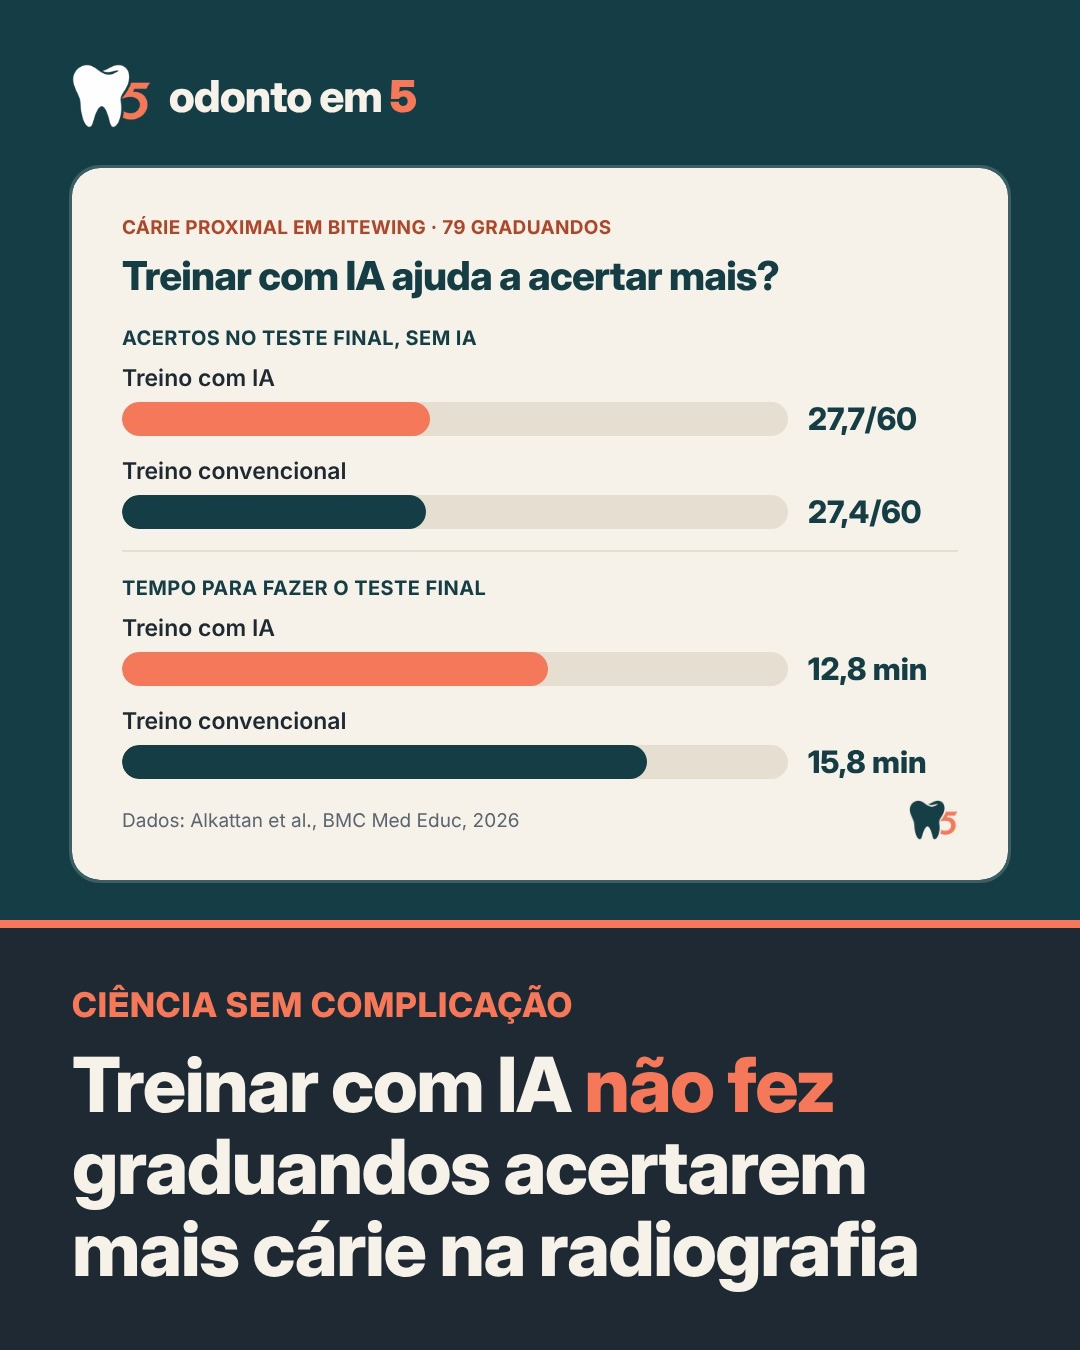
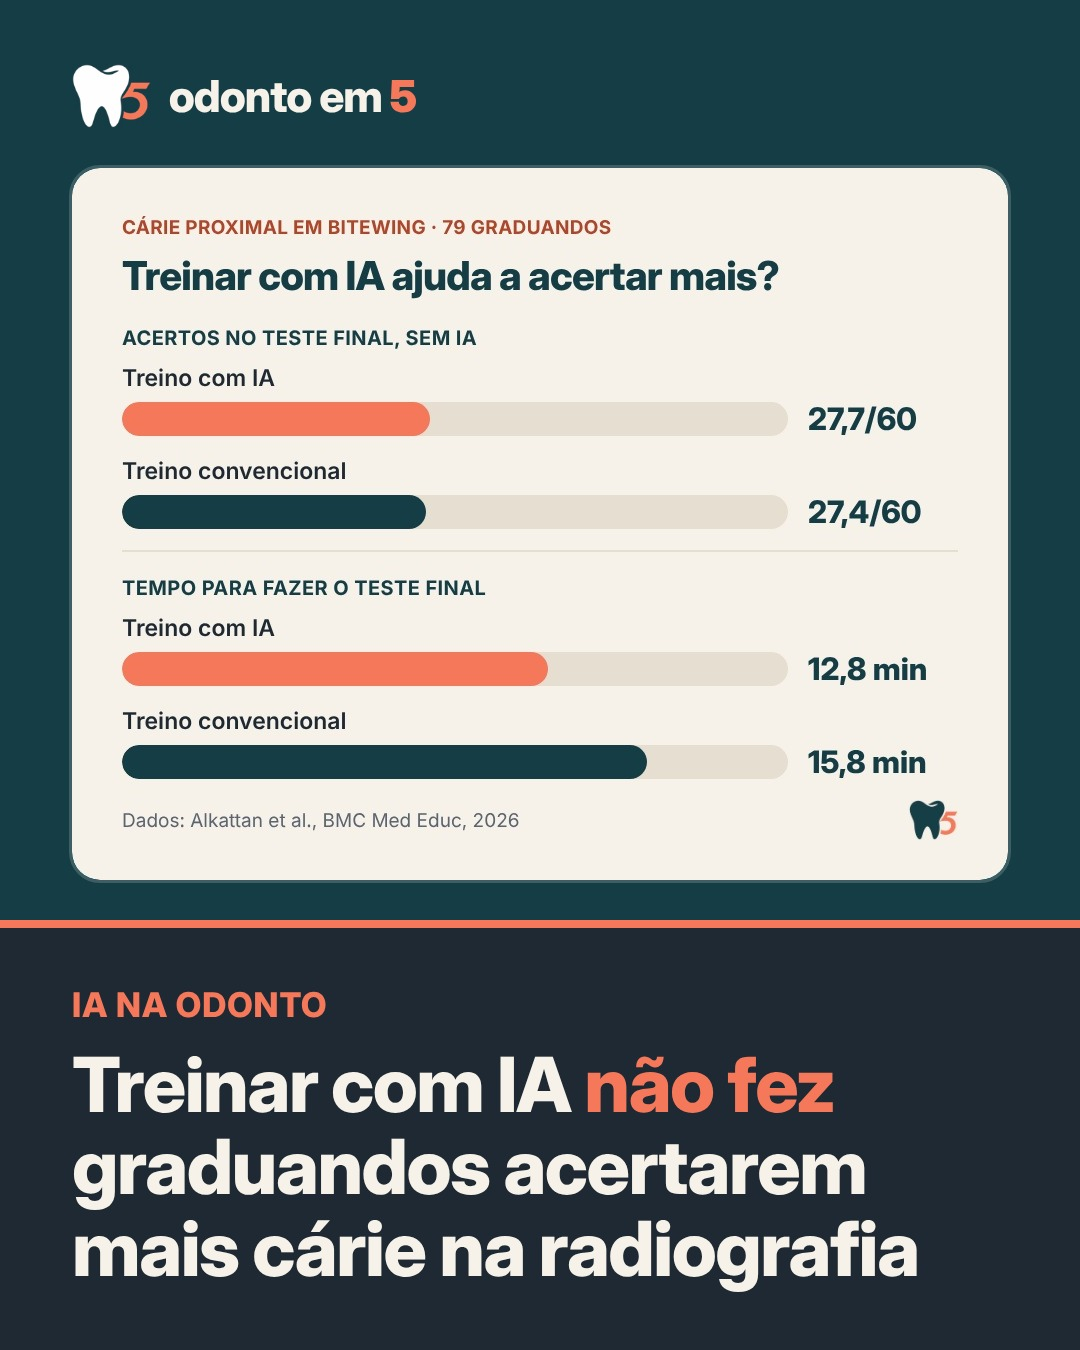
Posts avulsos de terça a sexta, com tema fixo por dia
Claude-Session: https://claude.ai/code/session_01HZM4YtSbmiuVSsxvWEreUq

Changed region(s): [[0.0611, 0.7156, 0.5194, 0.7778]]

diff --git a/AGENTES.md b/AGENTES.md
@@ -14,6 +14,7 @@ Este arquivo é o guia das sessões automáticas do Claude que pesquisam e monta
 | Quando | Quem | O quê |
 | --- | --- | --- |
 | Seg a sex, de manhã | Pesquisador | Coleta diária de pautas, salva no documento de pautas da semana no projeto ODONTOEMCINCO do Claude |
+| Ter a sex, 12h07 | Rotina do GitHub | Publica o post avulso do dia (só se `"revisado": true`) |
 | Sáb, 6h13 | Rotina do GitHub | Conta os votos da enquete da edição anterior (`resultado_enquete.json`) |
 | Sáb, de manhã | Editor + redator + revisor + designer | Monta a edição da segunda seguinte com `"aprovado": false`, manda a prévia e espera o editor-chefe |
 | Sáb e dom | Editor-chefe | Pede ajustes ou diz "aprovado"; só então a sessão muda para `"aprovado": true` |
@@ -86,13 +87,21 @@ Busque o que saiu **desde a última coleta** (normalmente nas últimas 24 a 72 h
 - Mande a prévia ao editor-chefe: as imagens do carrossel (SendUserFile), uma imagem do e-mail renderizado, a legenda e um resumo do que entrou e por quê. Mande também o e-mail de teste: dispare o workflow `publicar.yml` com `data`, `modo_teste=não` e `email_teste` igual ao e-mail do editor-chefe na lista.
 - Quando o editor-chefe pedir ajustes, faça e mande de novo. Quando ele disser **"aprovado"**, mude para `"aprovado": true`, faça commit e push, e confirme que a edição sai na segunda às 6h03.
 
-## 3. Posts avulsos (terça, quarta e sexta)
+## 3. Posts avulsos (terça a sexta, 12h07)
+
+Cada dia tem um tema fixo, que vai no campo `rotulo` do post:
+
+| Dia | Rótulo | O quê |
+| --- | --- | --- |
+| Terça | IA na Odonto | Inteligência artificial e tecnologia na Odontologia |
+| Quarta | Curiosidade | Um fato curioso da Odontologia, com fonte |
+| Quinta | Aprenda em 5 | Ensina algo prático ou um conceito que o graduando precisa saber |
+| Sexta | Notícia da profissão | CFO, Anvisa, leis, mercado de trabalho e carreira |
 
 - **Assunto novo da semana.** Nunca repita o que saiu na newsletter de segunda (confira `edicoes/` da semana).
 - **Não comprometa a próxima newsletter.** As pautas com nota 5 e a provável manchete da segunda seguinte ficam guardadas para a edição; a newsletter tem que ser sempre o conteúdo mais chamativo. Use nos posts:
-  - pautas boas de segundo nível (nota 3 ou 4) que não vão entrar na edição;
-  - oportunidades e prazos que vencem antes da próxima segunda (na newsletter chegariam tarde);
-  - "Você sabia?" sobre normas, regras e conceitos que o graduando precisa saber.
+  - pautas boas de segundo nível (nota 3 ou 4) que não vão entrar na edição e que caibam no tema do dia;
+  - oportunidades e prazos que vencem antes da próxima segunda (na newsletter chegariam tarde), como post urgente, fora do calendário.
 - Na dúvida se uma pauta é forte demais para virar post, guarde para a newsletter e pergunte ao editor-chefe.
 - Monte os posts com `"revisado": false` e mande a prévia ao editor-chefe; nada sai sem a revisão dele.
 

diff --git a/README.md b/README.md
@@ -14,9 +14,14 @@ Nada é publicado enquanto a variável `MODO_TESTE` estiver como `sim`, nem enqu
 
 ## Posts avulsos (estilo the news)
 
-Além da edição de segunda, o Instagram recebe **3 posts avulsos por semana**: uma imagem com a manchete e a matéria completa na legenda, sempre com a fonte.
+Além da edição de segunda, o Instagram recebe **4 posts avulsos por semana**: uma imagem com a manchete e a matéria completa na legenda, sempre com a fonte.
 
-- **Quando:** terça, quarta e sexta, às 12h07. A rotina publica os posts cuja data `publicar_em` é o dia.
+- **Quando:** de terça a sexta, às 12h07. A rotina publica os posts cuja data `publicar_em` é o dia.
+- **Tema de cada dia** (o rótulo da imagem):
+  - **Terça · IA na Odonto:** inteligência artificial e tecnologia na Odontologia.
+  - **Quarta · Curiosidade:** um fato curioso, com fonte.
+  - **Quinta · Aprenda em 5:** ensina algo prático ou um conceito que o graduando precisa saber.
+  - **Sexta · Notícia da profissão:** CFO, Anvisa, leis, mercado de trabalho e carreira.
 - **Trava de revisão:** só sai post com `"revisado": true`. Quem marca isso é o revisor, depois de conferir o texto com a fonte.
 - **Notícia urgente:** o calendário é o mínimo, não o máximo. Um post com `"urgente": true` e `"revisado": true` é publicado assim que entra na branch `main`, sem esperar o dia agendado. Os agentes marcam como urgente: oportunidade com prazo em até 7 dias, decisão do CFO, da Anvisa ou da Justiça que afete estudantes ou dentistas, e notícia de grande repercussão na área. Limite de 1 post urgente por dia.
 - **Publicar na hora:** um post com `"publicar_agora": true` e `"revisado": true` sai assim que entra na branch `main`. É assim que o Claude publica quando você pede.
@@ -33,9 +38,7 @@ posts/AAAA-MM-DD-assunto/
   post.jpg    imagem final, gerada com: python ferramentas/gerar_post.py posts/AAAA-MM-DD-assunto
 ```
 
-Tipos de post que se alternam: notícia, estudo explicado, oportunidade com prazo e "Você sabia?".
-
-**Regra:** post avulso traz assunto novo da semana. Nunca repete o que já saiu na newsletter de segunda e nunca usa as pautas mais fortes, que ficam guardadas para a edição da segunda seguinte: a newsletter tem que ser sempre o conteúdo mais chamativo. Os posts usam pautas boas de segundo nível, oportunidades com prazo que vence antes da próxima segunda e "Você sabia?".
+**Regra:** post avulso traz assunto novo da semana. Nunca repete o que já saiu na newsletter de segunda e nunca usa as pautas mais fortes, que ficam guardadas para a edição da segunda seguinte: a newsletter tem que ser sempre o conteúdo mais chamativo. Os posts usam pautas boas de segundo nível dentro do tema do dia. Oportunidade com prazo que vence antes da próxima segunda entra como post urgente.
 
 ## Estrutura de uma edição
 
